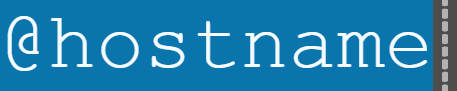
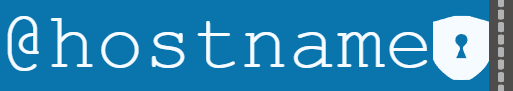
Fixes to starship.toml section -> Full Prompt (Incomplete)

Changed region(s): [[0.0, 0.0, 1.0, 1.0]]

diff --git a/README.md b/README.md
@@ -47,10 +47,7 @@ Main configuration file for [Starship Prompt](https://starship.rs/)
 
 <h1><em></em></h1> <!-- thin separator -->
 
-
-
 <!-- starship.toml ToC -->
-
 <details open> <!-- L1 -->
 <summary>Overview:</summary>
   <ul> 
@@ -99,30 +96,46 @@ Main configuration file for [Starship Prompt](https://starship.rs/)
 
 <h2>
 Full Prompt:<br>
-<div max-width 80%>
-   <a href=#time><img src="documentation/time.png" alt="#000292 module"/></a><!--
---><a href=#sudo><img src="documentation/sudo.png" alt="#000292 module"/></a><!--
---><a href=#jobs><img src="documentation/jobs.png" alt="#000292 module"/></a><!--
---><a href=#shlvl><img src="documentation/shlvl.png" alt="shlvl module"/></a><!--
---><a href=#username><img src="documentation/username.png" alt="username module"/></a><!--
---><a href=#hostname><img src="documentation/hostname.png" alt="hostname module"/><!--
-                  --><img src="documentation/ssh_session.png" alt="SSH session symbol"/></a><!--
---><a href=#env_var-termux><img src="documentation/env_var_termux.png" alt="env_var.Termux module"/></a><!--
---><a href=#directory><img src="documentation/dir_lock.png" alt="locked directory icon"/></a><!--
---><a href=#dir_sub><img src="documentation/dir_sub.png" alt="directory substitution"/></a><!--
---><a href=#directory><img src="documentation/directory.png" alt="directory module"/></a><!--
---><a href=#git_metrics><img src="documentation/git_metrics.png" alt="git_metrics module"/></a><!--
---><a href=#git_branch><img src="documentation/git_branch.png" alt="git_branch module"/></a><!--
---><a href=#git_commit><img src="documentation/git_commit.png" alt="git_commit module"/></a><!--
---><a href=#git_status><img src="documentation/git_status.png" alt="git_status module"/></a><!--
---><a href=#git_state><img src="documentation/git_state.png" alt="git_state module"/></a><!--
---><a href=#cmd_duration><img src="documentation/cmd_duration.png" alt="cmd_duration module"/></a><!--
---><a href=#status><img src="documentation/status.png" alt="status module"/></a>
-</div>
+<picture>
+   <a href=#time><!--
+--><img image-rendering= "pixelated" width="auto" height="22px" src="documentation/time.png" alt="time module"/></a><!--
+--><a href=#sudo><!--
+--><img image-rendering= "pixelated" width="auto" height="22px" src="documentation/sudo.png" alt="sudo module"/></a><!--
+--><a href=#jobs><!--
+--><img image-rendering= "pixelated" width="auto" height="22px" src="documentation/jobs.png" alt="jobs module"/></a><!--
+--><a href=#shlvl><!--
+--><img image-rendering= "pixelated" width="auto" height="22px" src="documentation/shlvl.png" alt="shlvl module"/></a><!--
+--><a href=#username><!--
+--><img image-rendering= "pixelated" width="auto" height="22px" src="documentation/username.png" alt="username module"/></a><!--
+--><a href=#hostname><!--
+--><img image-rendering= "pixelated" width="auto" height="22px" src="documentation/hostname.png" alt="hostname module"/><!--
+--><a href=#env_var-termux><!--
+--><img image-rendering= "pixelated" width="auto" height="22px" src="documentation/env_var_termux.png" alt="env_var.Termux module"/></a><!--
+--><a href=#directory><!--
+--><img image-rendering= "pixelated" width="auto" height="22px" src="documentation/dir_lock.png" alt="locked directory icon"/></a><!--
+--><a href=#dir_sub><!--
+--><img image-rendering= "pixelated" width="auto" height="22px" src="documentation/dir_sub.png" alt="directory substitution"/></a><!--
+--><a href=#directory><!--
+--><img image-rendering= "pixelated" width="auto" height="22px" src="documentation/directory.png" alt="directory module"/></a><!--
+--><a href=#git_metrics><!--
+--><img image-rendering= "pixelated" width="auto" height="22px" src="documentation/git_metrics.png" alt="git_metrics module"/></a><!--
+--><a href=#git_branch><!--
+--><img image-rendering= "pixelated" width="auto" height="22px" src="documentation/git_branch.png" alt="git_branch module"/></a><!--
+--><a href=#git_commit><!--
+--><img image-rendering= "pixelated" width="auto" height="22px" src="documentation/git_commit.png" alt="git_commit module"/></a><!--
+--><a href=#git_status><!--
+--><img image-rendering= "pixelated" width="auto" height="22px" src="documentation/git_status.png" alt="git_status module"/></a><!--
+--><a href=#git_state><!--
+--><img image-rendering= "pixelated" width="auto" height="22px" src="documentation/git_state.png" alt="git_state module"/></a><!--
+--><a href=#cmd_duration><!--
+--><img image-rendering= "pixelated" width="auto" height="22px" src="documentation/cmd_duration.png" alt="cmd_duration module"/></a><!--
+--><a href=#status><!--
+--><img image-rendering= "pixelated" width="auto" height="22px" src="documentation/status.png" alt="status module"/></a>
+</picture>
 <!--
 ❮HH:MM:SS❯ 32user@hostname /usr/ex/am.ple72⥮19 main#4ec0fa8merging❮3/5❯1s993ms148
 -->
-  <details open>
+  <details>
   <summary><a href=https://github.com/github/markup/issues/1440>Why is this a set static images?</a></summary>
   <blockquote>
   <samp style="font-size: 14pt">
